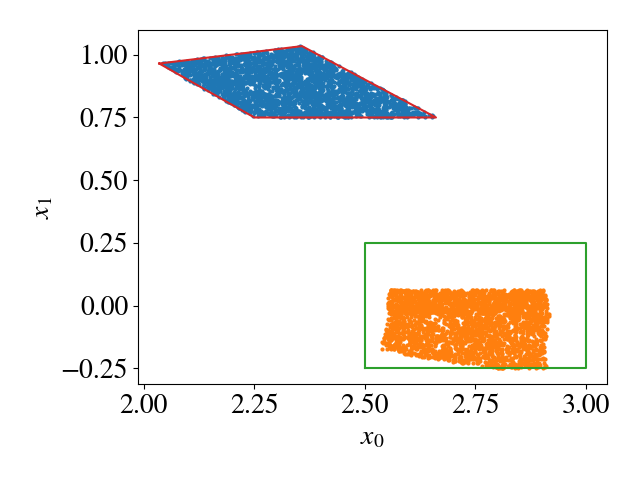
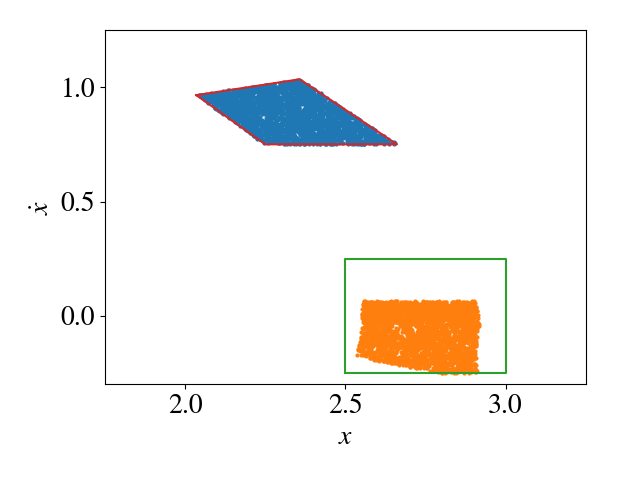
add ability to fix plot_limits to example_backward. update docs to reflect this capability

diff --git a/nn_closed_loop/example_backward.py b/nn_closed_loop/example_backward.py
@@ -27,31 +27,10 @@ def main(args):
                 [  # (num_inputs, 2)
                     [2.5, 3.0],  # x0min, x0max
                     [-0.25, 0.25],  # x1min, x1max
-                    # [-0.25, 0.25],  # x0min, x0max
-                    # [-0.1, 0.1],  # x1min, x1max
                 ]
             )
         else:
             raise NotImplementedError
-            import ast
-
-            init_state_range = np.array(
-                ast.literal_eval(args.init_state_range)
-            )
-    elif args.system == "quadrotor":
-        raise NotImplementedError
-        if args.state_feedback:
-            dyn = dynamics.Quadrotor()
-        else:
-            dyn = dynamics.QuadrotorOutputFeedback()
-        if args.init_state_range is None:
-            init_state_range = np.array(
-                [  # (num_inputs, 2)
-                    [4.65, 4.65, 2.95, 0.94, -0.01, -0.01],
-                    [4.75, 4.75, 3.05, 0.96, 0.01, 0.01],
-                ]
-            ).T
-        else:
             import ast
 
             init_state_range = np.array(
@@ -72,8 +51,6 @@ def main(args):
     partitioner_hyperparams = {
         "type": args.partitioner,
         "num_partitions": num_partitions,
-        # "make_animation": False,
-        # "show_animation": False,
     }
     propagator_hyperparams = {
         "type": args.propagator,
@@ -201,6 +178,7 @@ def main(args):
             show=args.show_plot,
             labels=args.plot_labels,
             aspect=args.plot_aspect,
+            plot_lims=args.plot_lims,
             **analyzer_info
         )
 
@@ -312,6 +290,11 @@ def setup_parser():
         default="auto",
         choices=["auto", "equal"],
         help="aspect ratio on input partition plot (default: auto)",
+    )
+    parser.add_argument(
+        "--plot_lims",
+        default=None,
+        help='x and y lims on plot (default: None)',
     )
 
     return parser

diff --git a/nn_closed_loop/nn_closed_loop/partitioners/ClosedLoopPartitioner.py b/nn_closed_loop/nn_closed_loop/partitioners/ClosedLoopPartitioner.py
@@ -191,7 +191,18 @@ class ClosedLoopPartitioner(partitioners.Partitioner):
         # # Reachable sets
         # self.plot_reachable_sets(output_constraint, input_dims)
 
-    def visualize(self, M, interior_M, output_constraint, iteration=0, title=None, reachable_set_color=None, reachable_set_zorder=None, reachable_set_ls=None, dont_tighten_layout=False):
+    def visualize(self,
+        M,
+        interior_M,
+        output_constraint,
+        iteration=0,
+        title=None,
+        reachable_set_color=None,
+        reachable_set_zorder=None,
+        reachable_set_ls=None,
+        dont_tighten_layout=False,
+        plot_lims=None,
+        ):
 
         # Bring forward whatever default items should be in the plot
         # (e.g., MC samples, initial state set boundaries)
@@ -201,6 +212,14 @@ class ClosedLoopPartitioner(partitioners.Partitioner):
         # Actually draw the reachable sets and partitions
         self.plot_reachable_sets(output_constraint, self.input_dims, reachable_set_color=reachable_set_color, reachable_set_zorder=reachable_set_zorder, reachable_set_ls=reachable_set_ls)
         self.plot_partitions(M, output_constraint, self.input_dims)
+
+        if plot_lims is not None:
+            import ast
+            plot_lims_arr = np.array(
+                ast.literal_eval(plot_lims)
+            )
+            plt.xlim(plot_lims_arr[0])
+            plt.ylim(plot_lims_arr[1])
 
         # Do auxiliary stuff to make sure animations look nice
         if title is not None:

diff --git a/nn_closed_loop/nn_closed_loop/analyzers/ClosedLoopBackwardAnalyzer.py b/nn_closed_loop/nn_closed_loop/analyzers/ClosedLoopBackwardAnalyzer.py
@@ -49,6 +49,7 @@ class ClosedLoopBackwardAnalyzer(analyzers.Analyzer):
         show_samples=False,
         aspect="auto",
         labels={},
+        plot_lims=None,
         **kwargs
     ):
         # sampled_outputs = self.get_sampled_outputs(input_range)
@@ -60,8 +61,8 @@ class ClosedLoopBackwardAnalyzer(analyzers.Analyzer):
             self.propagator,
             show_samples=show_samples,
             inputs_to_highlight=[
-                {"dim": [0], "name": "py"},
-                {"dim": [1], "name": "pz"},
+                {"dim": [0], "name": "$x$"},
+                {"dim": [1], "name": "$\dot{x}$"},
             ],
             aspect=aspect,
             initial_set_color=self.initial_set_color,
@@ -74,7 +75,8 @@ class ClosedLoopBackwardAnalyzer(analyzers.Analyzer):
             kwargs.get("interior_partitions", []),
             output_constraint,
             reachable_set_color=self.reachable_set_color,
-            reachable_set_zorder=self.reachable_set_zorder
+            reachable_set_zorder=self.reachable_set_zorder,
+            plot_lims=plot_lims,
         )
 
         # self.partitioner.animate_axes.legend(

diff --git a/docs/_static/journal/journal.md b/docs/_static/journal/journal.md
@@ -10,14 +10,15 @@ python -m nn_closed_loop.example_backward \
 	--state_feedback \
 	--show_plot \
 	--boundaries polytope \
-	--num_partitions "[10, 10]"
+	--num_partitions "[10, 10]" \
+	--plot_lims "[[1.75,3.25],[-0.3,1.25]]"
 ```
 
 You can change `--num_partitions` to get the various fidelities.
 
-2x2 | 4x4 | 8x8
------------- | ------------- | -------------
-![2x2](/docs/_static/journal/backreach/double_integrator_None_CROWN_polytope_8_partitions_2_2.png) | ![4x4](/docs/_static/journal/backreach/double_integrator_None_CROWN_polytope_8_partitions_4_4.png) | ![8x8](/docs/_static/journal/backreach/double_integrator_None_CROWN_polytope_8_partitions_8_8.png)
+2x2 | 4x4 | 8x8 | 16x16
+------------ | ------------- | ------------- | -------------
+![2x2](/docs/_static/journal/backreach/double_integrator_None_CROWN_polytope_8_partitions_2_2.png) | ![4x4](/docs/_static/journal/backreach/double_integrator_None_CROWN_polytope_8_partitions_4_4.png) | ![8x8](/docs/_static/journal/backreach/double_integrator_None_CROWN_polytope_8_partitions_8_8.png) | ![16x16](/docs/_static/journal/backreach/double_integrator_None_CROWN_polytope_8_partitions_16_16.png)
 
 
 ### 3D Quadrotor Plot
